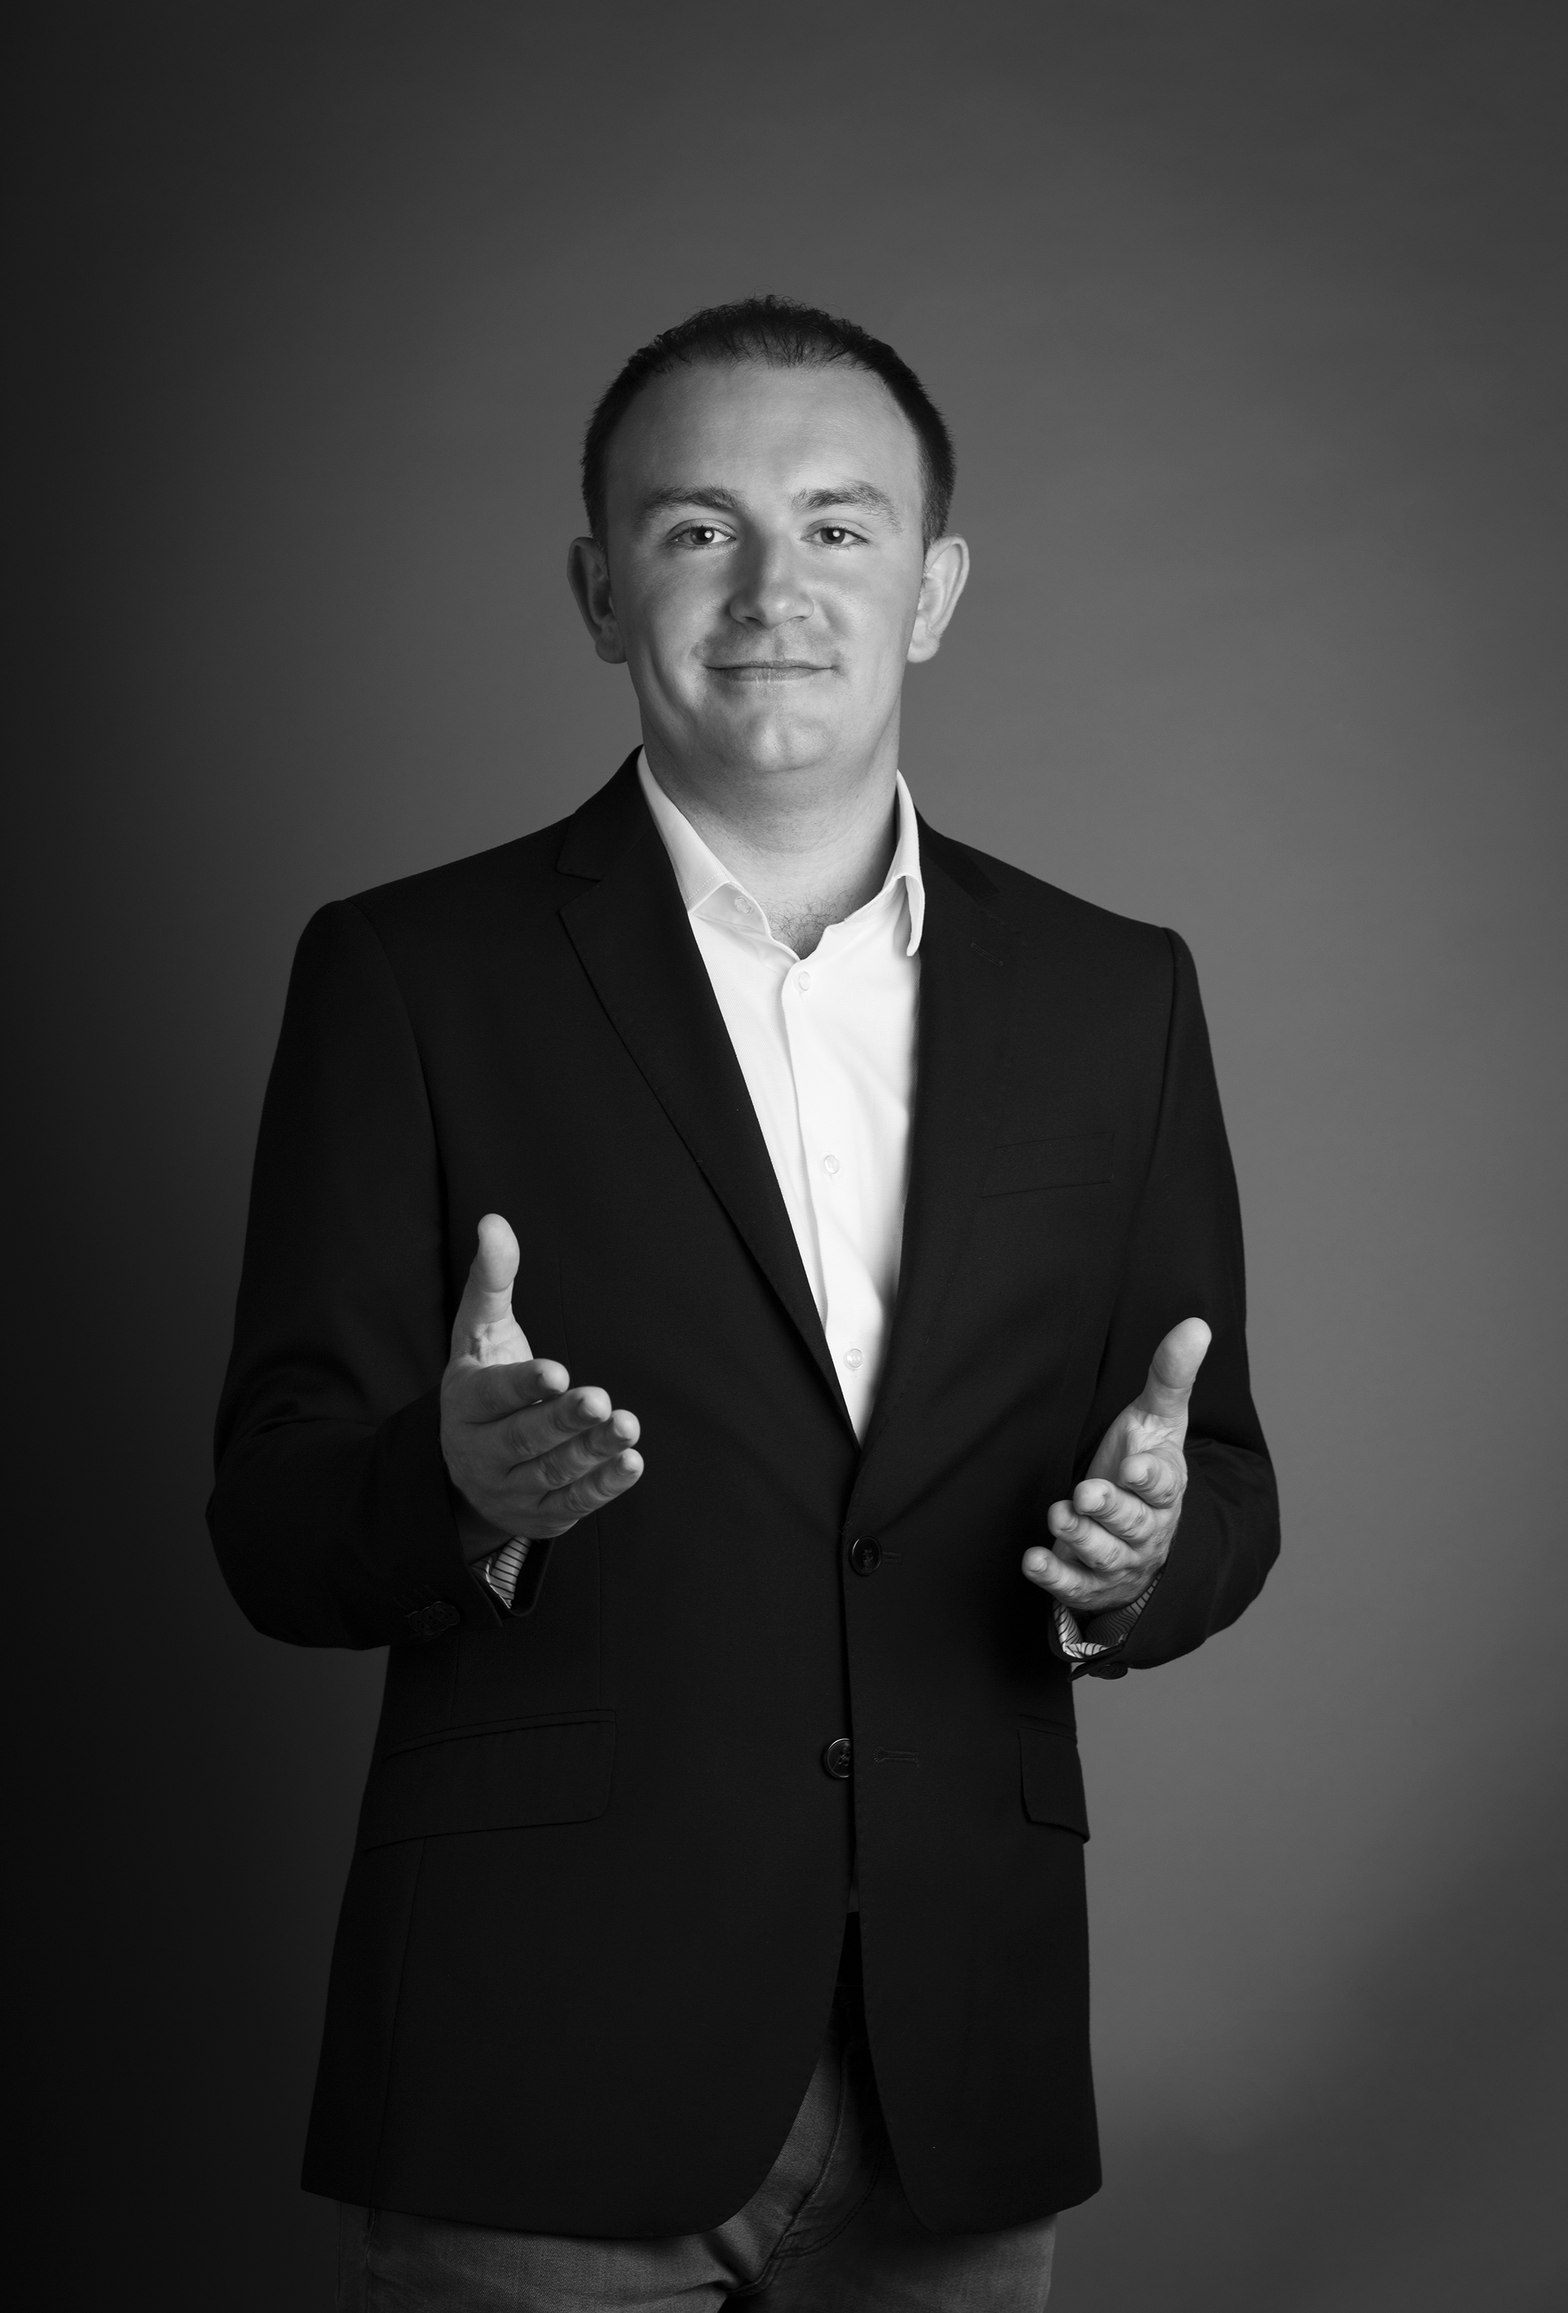
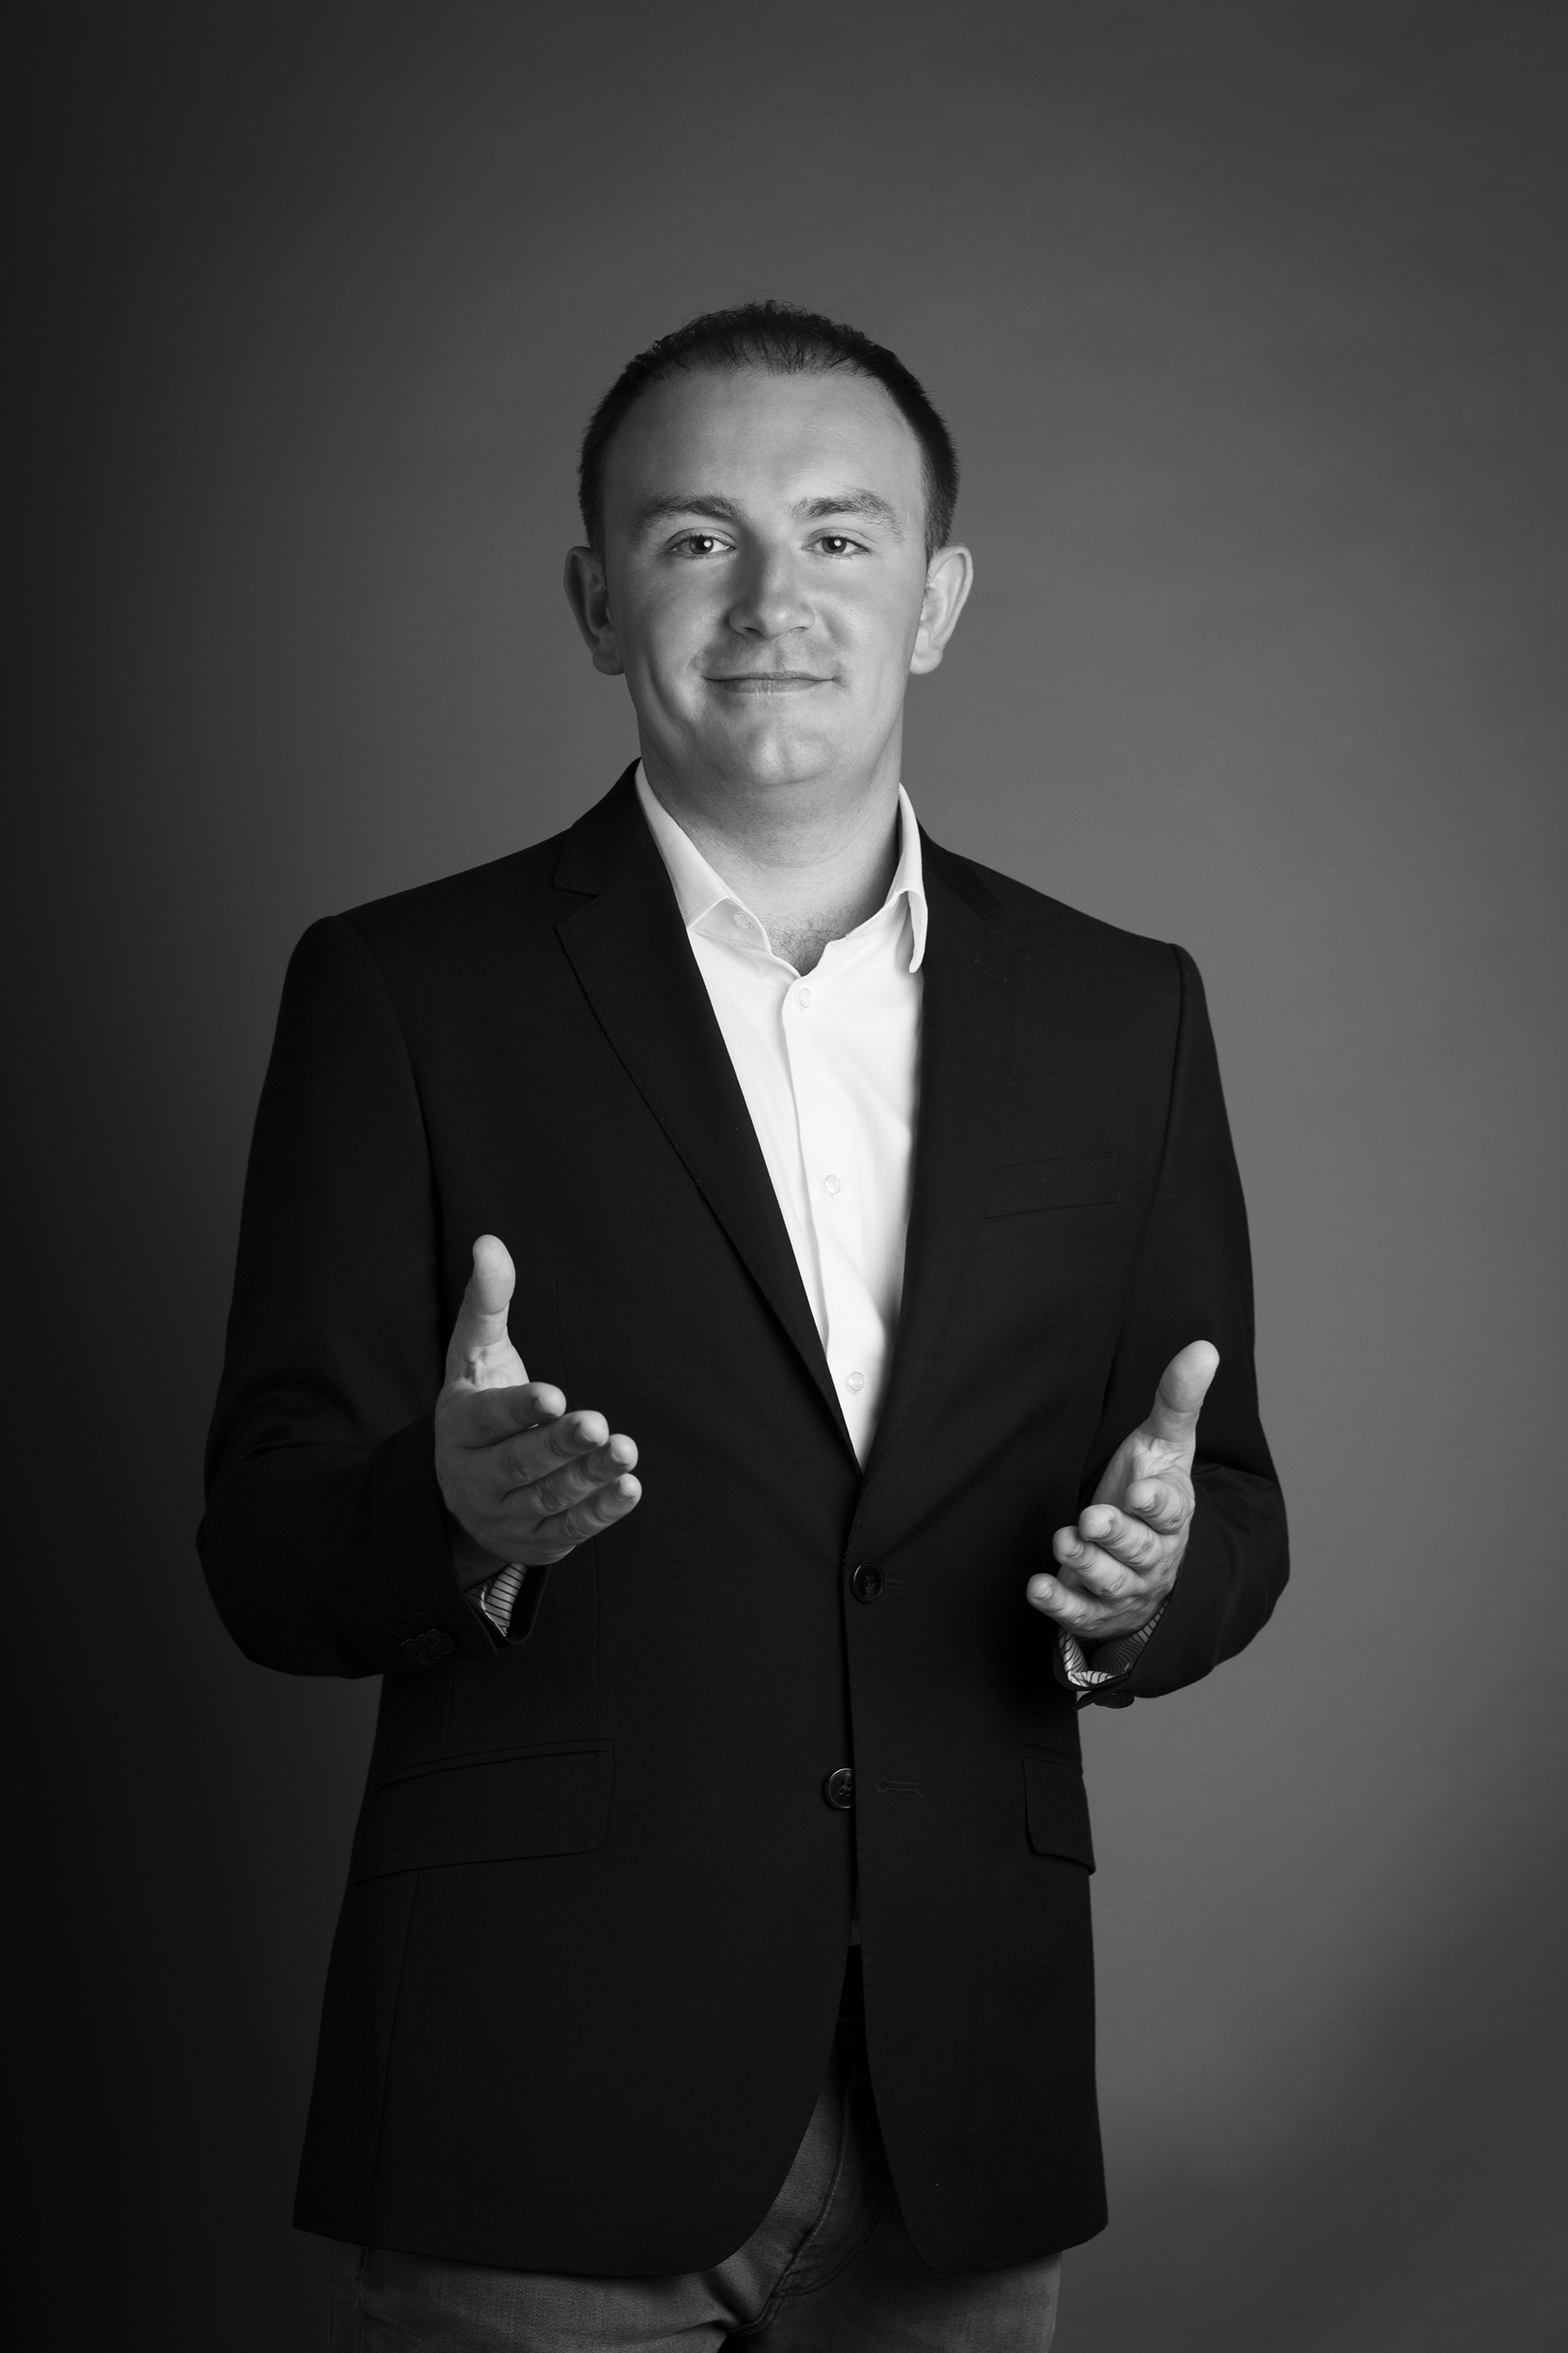
fix slider

diff --git a/index.html b/index.html
@@ -196,9 +196,9 @@
           </div>
           <div class="hk-timeline-line-4">
             <span class="hk-cell-1">HackIT conference</span>
-            <span class="hk-cell-2">HackIT week</span>
+            <span class="hk-cell-2">HackIT Cup</span>
             <span class="hk-cell-3">The Final Competition on <br />the biggest aircraft Mriya</span>
-            <span class="hk-cell-4">ICO</span>
+            <span class="hk-cell-4">Token Sale</span>
           </div>
         </div>
       </div>
@@ -346,7 +346,7 @@
             <h5>Length of<br />Token sale</h5> 1 month from<br />October 7th 2017
           </div>
           <div class="hk-details-pane">
-            <h5>Escrow</h5> 80% of the funds<br />raised are kept at<br />escrow account
+            <h5>Escrow</h5> in average 80% of the funds<br />raised are kept at<br />escrow account
           </div>
         </div>
       </div>

diff --git a/src/css/style.css b/src/css/style.css
@@ -924,8 +924,7 @@ p.hk-burning-descr {
 .hk-bonus_circle {
   height: 150px;
   width: 150px;
-  /*margin-left: calc(50% - 152px);*/
-  margin-left: 50px;
+  margin-left: calc(50% - 152px);
   margin-bottom: 65px;
   border-radius: 50%;
   display: inline-block;
@@ -1418,5 +1417,14 @@ h2+hr {
 }
 h2 {
     font-size: 40px !important;
+}
+.team-slider .swiper-slide .team-image, .team-image-active {
+    max-width: 250px;
+}
+.hk-team .hk-central_block>div.not-relative {
+    margin-top: 25px;
+}
+.team-slider {
+    margin-top: 10px;
 }
 }
